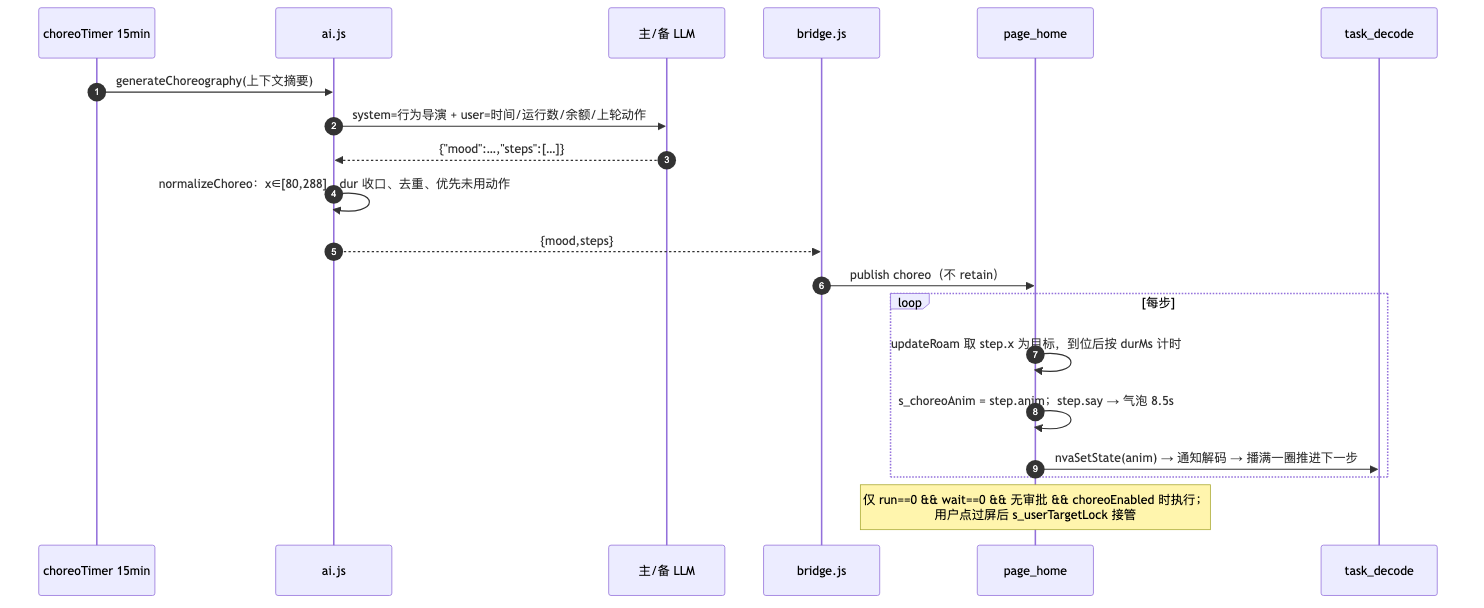
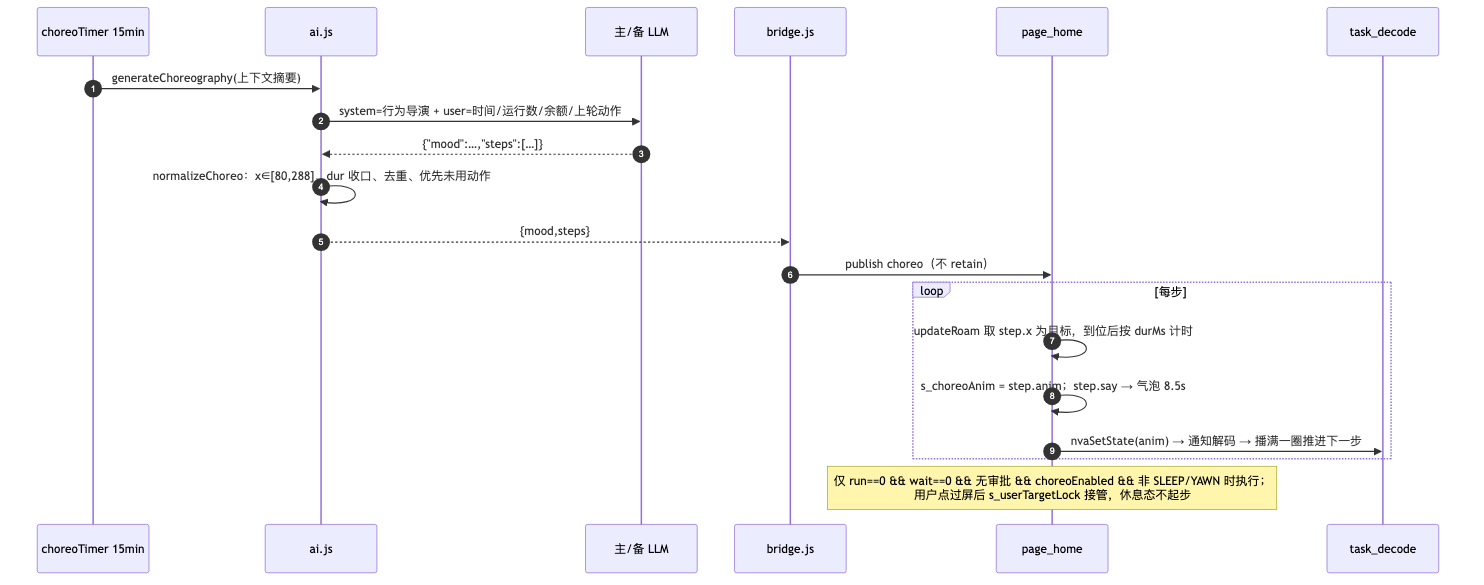
[文档] 同步 v0.6.0：24 动作调度、16MB 分区与主屏交互
原因：0.6.0 三个提交只补了协议/资产层与少量架构行，ARCHITECTURE 仍缺动作状态机优先级、主屏交互与 v0.6.0 不变量；README/AGENTS 里的像素基线数（47）和动作表来源已过时。

影响：ARCHITECTURE 新增 §4.2 HOME 舞台与 24 动作（五处枚举同序、调度优先级、交互表、粒子与镜像规则），§2.1/§3.2/§3.8/§5/§6/§7 补 v0.6.0 条目（resting 闸、动作表同序、镜像白名单、AOD 局部重绘、16MB 分区边界），原电源/配网顺延为 §4.3/§4.4；README 补 0.6.0 表现力条目并更新文档表与像素基线数；AGENTS 补任务书入口、动作表与分区硬规则；重导 07-choreo.png。无代码变更。

验证：11 个 mermaid 块逐个 mmdc 通过；三份 md 的表格列数与相对链接校验无错；动作枚举顺序、镜像白名单 14/10、时长阈值、51 项基线与 24 包体积逐项对代码核对。

diff --git a/docs/ARCHITECTURE.md b/docs/ARCHITECTURE.md
@@ -138,7 +138,7 @@ graph TD
 | `ui/page_*.cpp` | 七页绘制 / 点按 / 滚动惯性 | theme · icons · nva · state · settings | 点按返回 `UiAction`，逻辑回 main |
 | `ui/transition.cpp` | 180ms 双缓存滑屏合成 | display · canvas · easing | 只在切页时 |
 | `ui/theme.cpp` · `aafont_data.cpp` | 色板、组件、4-bpp 字体 | — | 字体 6.7MB，不进逻辑 |
-| `anim/nva.cpp` | `.nva` 解析、zlib、XOR 帧差、双缓冲、`task_decode` | theme | 解码只写后缓冲 |
+| `anim/nva.cpp` | `.nva`（NVA2）解析、zlib、XOR 帧差、双缓冲、`task_decode`；24 动作，常驻 IDLE/SUCCESS/ERROR 3 槽，其余走共享流式槽 `s_streamPack` | theme | 解码只写后缓冲；单帧 `w*h ≤ 220×224` |
 | `audio/sfx.cpp` | 提示音序列 | hw/audio | — |
 | `hw/bus.cpp` | I2C 唯一主：触摸 / 电量 / RTC / IMU / 扩展 IO / 麦克风增益 | power · rtc · imu · input · expander · audio | 任何 I2C 都走它 |
 | `hw/display.cpp` | QSPI 推送（全屏 / 矩形 / 亮度） | expander · power | 约束见 §5 |
@@ -232,7 +232,7 @@ flowchart TD
 | | `model` `title` `tool` `errMsg` | ≤32 / ≤40 / ≤24 / ≤136B，主屏码头用 |
 | `sessions` | `items[≤4]` | 每项 `{id,name,cwd,st∈{run,wait,err,idle},el,act,note,steps[≤3]{t,s,a}}`；顶层 `lastSay` `lastAgo` |
 | `approval` | `id` `tool` `reason` `ttl` | `reason`≤140；可选 `sess` `note`；`approval_end` 只要 `id` |
-| `choreo` | `mood` `steps[≤6]` | 每步 `{x∈[80,288],speed:walk/run,anim,dur(ms),say}`；`anim` 只认 24 枚举（`ai.js:VALID_ANIMS` / `proto.cpp:kAnimNames` / `nva.h:NvaAnimKey` 三处必须逐项同步，未知回落 0=idle） |
+| `choreo` | `mood` `steps[≤6]` | 每步 `{x∈[80,288],speed:walk/run,anim,dur(ms),say}`；宿主收口 `mood≤20`、`say≤18` 字、`dur 10–24s`（设备兜底 1.5–30s）；`anim` 只认 24 枚举（清单见 §4.2），未知回落 `0=idle` |
 | `tts` | `id` `seq` `tot` `b64` | 1800B ADPCM/片；设备上限 `98304B`，超了整条静默丢 |
 | `chat` | `asr` | `{t,id,ok,text/err}` → 草稿卡 |
 | | `delivery` | `{t,id,kind:sent/run/reply/fail/mute,pos,secs/ago,target,name,text}` |
@@ -394,7 +394,7 @@ sequenceDiagram
         DEV->>DEV: s_choreoAnim = step.anim；step.say → 气泡 8.5s
         DEV->>NVA: nvaSetState(anim) → 通知解码 → 播满一圈推进下一步
     end
-    Note over DEV: 仅 run==0 && wait==0 && 无审批 && choreoEnabled 时执行；<br/>用户点过屏后 s_userTargetLock 接管
+    Note over DEV: 仅 run==0 && wait==0 && 无审批 && choreoEnabled && 非 SLEEP/YAWN 时执行；<br/>用户点过屏后 s_userTargetLock 接管，休息态不起步
 ```
 
 ---
@@ -436,7 +436,40 @@ stateDiagram-v2
 
 环序 `kPageRing = TOKENS → HOME → QUOTA → RANK → DETAIL → CHAT`（`nav.cpp`）；滑动阈值 `|dx| ≥ 48 && |dx| > |dy|`。SETTINGS 在环外，从 DETAIL 或 Key1 进。
 
-### 4.2 电源与帧率
+### 4.2 HOME 舞台与 24 动作
+
+动作顺序 `0..23` 是硬契约（0..8 与旧版逐项兼容，新动作只能追加）：
+`idle thinking working waiting success error click sleep quota` · `click_happy click_shy click_angry click_giggle` · `crab_walk happy_run coding archive` · `stretch yawn wake_up hum eat_token bubble quota_worry`。
+五处枚举必须同序：`nva.h:NvaAnimKey`、`nva.cpp:ANIM_NAMES`、`proto.cpp:kAnimNames`（带 `static_assert`）、`ai.js:VALID_ANIMS`、`page_home.cpp:kDemoTags`；资产侧 `convert_pet.py:CORE` 只需名字集合一致（文件名即键）。语义与镜像白名单见 [pet-expressiveness-plan.md](pet-expressiveness-plan.md) §1。
+
+**调度优先级**（`main.cpp`，自上而下、先命中先定）
+
+| # | 条件 | 动作 | 说明 |
+|---|---|---|---|
+| 1 | AOD 生效 | AOD 定格姿势 | 主状态机与任务结束 oneShot 都**不许**调 `nvaSetState` |
+| 2 | 审批浮层 / `wait>0` | WAITING | 中断一切点击/一次性动画 |
+| 3 | 串口 `demo` 或点状态胶囊 | demo `0..23` | 再点一圈回到自动 |
+| 4 | 局部点击动画 | click_* / click_angry / wake_up | 见交互表，最长 13.5s 兜底 |
+| 5 | 任务完成 / 异常 | SUCCESS / ERROR | 一次性：SUCCESS 13.5s、ERROR 8.5s |
+| 6 | `run>0` | 由 `lastTool` 映射 CODING / ARCHIVE / WORKING / THINKING | 关键词表在 `pageHomeWorkAnimForTool` |
+| 7 | 正在走动 | CRAB_WALK / HAPPY_RUN | 小跑 92 px/s、漫步 38 px/s，hop 压到 2.0f |
+| 8 | 闲置 | 75s→YAWN、90s→SLEEP（电池 30s / 45s） | 进入 AOD 前先困 |
+| 9 | 有剧本 | choreo `step.anim` | 休息态不推步 |
+| 10 | 其余 | 巡游池 HUM / BUBBLE / STRETCH / QUOTA（余额 <15 或订阅条 ≥80% 换 QUOTA_WORRY）/ EAT_TOKEN（今日 ≥1 亿）/ THINKING（有会话） | 播满 1 cycle 换一个，回 IDLE 停 2 cycle |
+
+**交互**
+
+| 操作 | 结果 |
+|---|---|
+| 点宠物（清醒） | `click / click_happy / click_shy / click_giggle` 轮换，防连播 + 专属台词 |
+| 8s 内连戳 ≥3 次 | `click_angry` + 傲娇台词，连击清零 |
+| 点宠物（SLEEP / YAWN） | `wake_up` + 唤醒台词 |
+| 点舞台空白 | 小跑到落点（`s_userTargetLock`，14s 后恢复巡游） |
+| 点状态胶囊 | 切 demo，到头回自动 |
+
+**表现规则**：镜像只对 14 个白名单动作生效（带文字/道具的 10 个不镜像，`spriteAllowsMirror`）；spark、Zzz、气泡只在当前帧框 `curX0..curY1` 内画，推送区域取上一帧框 ∪ 本帧框，越界的粒子直接丢；绘制与命中判定必须用同一组 `burnOffset`。
+
+### 4.3 电源与帧率
 
 ```mermaid
 stateDiagram-v2
@@ -468,7 +501,7 @@ stateDiagram-v2
 - **DFS**：`LIVELY` 240；`ADAPTIVE` 有插电或活跃需求 240，否则 80；`LONG_BATT` 熄屏 80、审批 160、其余 80；AOD 一律 80。
 - **WiFi**：审批 / 配网 / 录音上传 / 交互后 5s 内 `WIFI_PS_NONE`，其余 `MAX_MODEM`；电池下按 RSSI 三档降发射功率（13/17/20dBm），插电满功率。
 
-### 4.3 配网与在线
+### 4.4 配网与在线
 
 ```mermaid
 stateDiagram-v2
@@ -522,6 +555,7 @@ flowchart TD
 | `pushRect` | 列/行偶对齐；宽 <18 会丢列；宽 ≥240 整行带零拷贝；其余走 64KB 内部 SRAM 条带 |
 | 脏矩形口径 | 只推「内容真正活动的带」：鲸鱼只在 88px 里动，早期推 194px = 白搬 58%（27ms） |
 | CHAT 页 | 无脏矩形：`recGen/chatGen/boardGen` 任一变化 → 全屏；录音中按 83ms 节流刷电平 |
+| HOME 舞台 | 上一帧框 ∪ 本帧框；spark / Zzz / 气泡都在并集内画，超出即丢（不留残影） |
 
 ---
 
@@ -543,6 +577,11 @@ flowchart TD
 | 12 | 中文字段截断用 `novaSafeUtf8Copy` | 半个 UTF-8 字符 → 花屏方块 |
 | 13 | 设备上行 JSON 受 448B 限制；下行不受（读缓冲 4096） | 上行截断成非法 JSON，宿主静默丢包 |
 | 14 | 审批浮层期间 `animPage=false` | 驱动动画把浮层画回去覆盖 |
+| 15 | SLEEP / YAWN 期间本地巡游与 choreo 都必须停步（`resting` 闸） | 熟睡的宠物被拉着「梦游」、顶着 Zzz 说元气台词 |
+| 16 | 动作表五处同序，`0..8` 不许改序，新动作只追加 | 资产文件名、协议名、导演白名单三者错位，播出错动作 |
+| 17 | 镜像只对 14 个白名单动作生效；新动作默认不镜像 | 带文字/道具的动作左右翻转后文字反了 |
+| 18 | 舞台绘制与命中都用 `burnOffset`；粒子/气泡不许越出脏矩形 | 按钮点歪 2px、粒子残影 |
+| 19 | 16MB 分区只覆盖 1.8 env，`spiffs` label 不可改名 | 其他板 8MB 装不下 24 包；改名后 `LittleFS.begin()` 挂载失败 |
 
 ---
 
@@ -564,6 +603,10 @@ flowchart TD
 | `settings.h` 新字段 | NVS 键 + 默认值 + prefs | 中 | 断电重启仍生效 |
 | `hw/audio.cpp` 录音 / 增益 | 录音电平、mic 上传 | 中 | `node tools/rec_receiver.mjs` |
 | 帧率策略（`targetFps`） | 流畅度、功耗、`pushUs` | 中 | 每页 `{"cmd":"stat"}` 看 `pushUs` |
+| `page_home.cpp` 交互 / 动作 / 脏矩形 | HOME 表现、AOD 表盘、点击热区 | 中高 | `bash tools/sim/check.sh`（`page_home_*` 基线）+ 真机戳戳乐 |
+| 动作枚举 / 名字表（5 处） | 资产、协议、LLM 导演 | 中 | `bash tools/test_proto.sh` + `cd host-plugin && npm test`（choreo） |
+| `convert_pet.py` / `no_ota_16mb.csv` | 资产体积与分区 | 高 | 重转 → `bash tools/prep_data.sh` → 全量烧录并确认 LittleFS 挂载 |
+| AOD 进出与局部重绘条件 | 表盘、熄屏、功耗 | 中 | 停在各页进/出 AOD，确认没有局部分支往表盘上画 |
 
 ---
 
